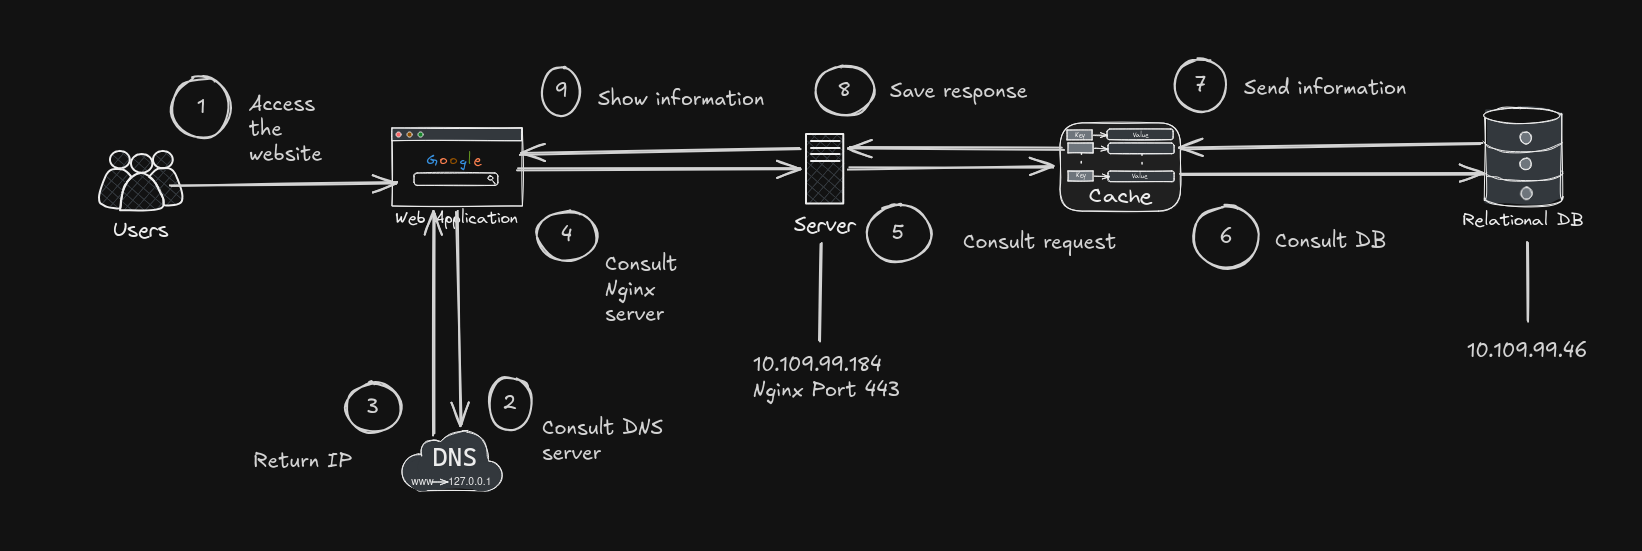
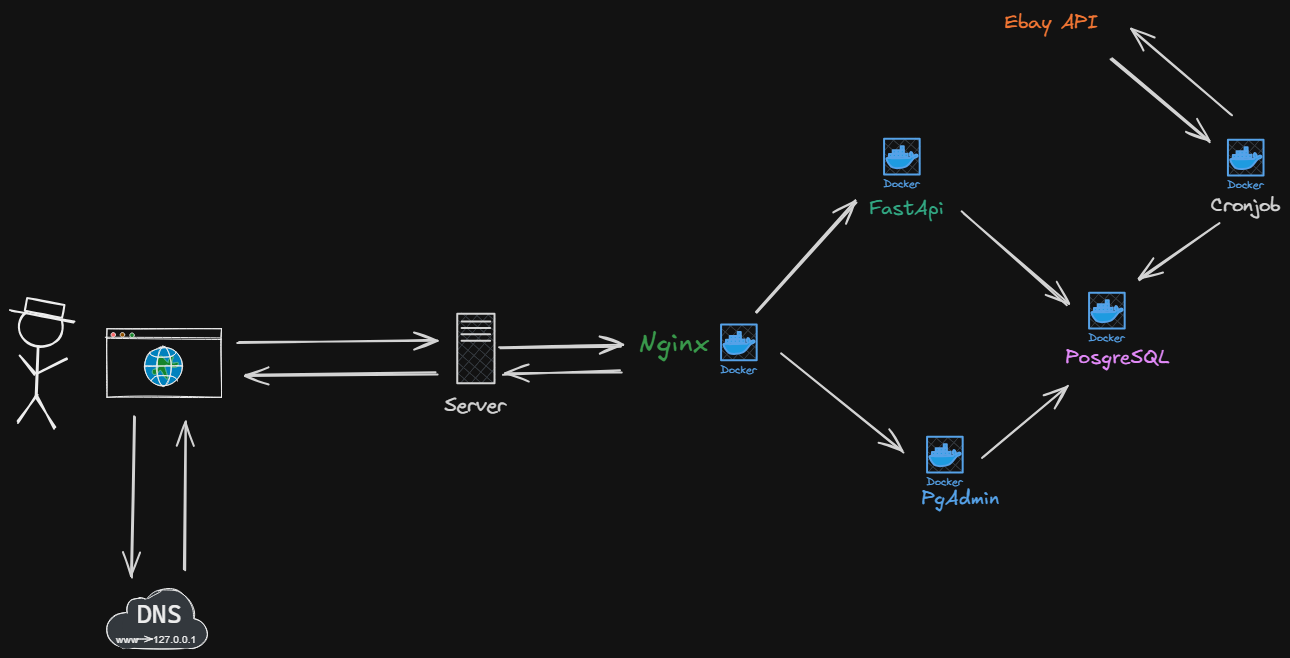
Upload application architecture diagram

diff --git a/README.md b/README.md
@@ -1,31 +1,38 @@
 # Final Project 1ºDAW
 
 # Table of contents
+
+- [Application Architecture](#architecture)
+
 - [Day 1](#day-1)
-    1. [Data source and functionality](#data-source)
-    2. [Virtual machines](#virtual-machines)
-    3. [Architecture diagram](#architecture-diagram)
-    
+  1. [Data source and functionality](#data-source)
+  2. [Virtual machines](#virtual-machines)
+  3. [Architecture diagram](#architecture-diagram)
 - [Day 2](#day-2)
-    1. [Postgres and PgAdmin setup](#db)
-    2. [Entity Relationship Diagram](#entity-diagram)
+  1. [Postgres and PgAdmin setup](#db)
+  2. [Entity Relationship Diagram](#entity-diagram)
 
 - [Day 3](#day-3)
-    1. [Nginx Configuration](#nginx)
-    2. [Cronjob Script](#cronjob)
-    3. [FastApi Backend](#fastapi)
+  1. [Nginx Configuration](#nginx)
+  2. [Cronjob Script](#cronjob)
+  3. [FastApi Backend](#fastapi)
 
 - [Day 4](#day-4)
+
+## Architecture <a name="architecture"></a>
+
+![diagram](./img/architecture-diagram.png)
 
 ## Day 1 <a name="day-1"></a>
 
 ## Data source and functionality <a name="data-source"></a>
-We have chosen the Ebay API as our primary 
+
+We have chosen the Ebay API as our primary
 data source of information. We will use this API to retrieve
 information related to products based in our interests.
 
 Our plan is to use a lightweight Python Backend Framework, such as
-Flask or FastApi and the library requests. 
+Flask or FastApi and the library requests.
 
 We will use FastApi/Flask to declare endpoints that we will call from the Frontend to populate the database
 and additionally generate an html page with the products information consolidated in the database.
@@ -34,14 +41,14 @@ The library requests will be used directly from the backend to retrieve the info
 to the selected products. We will then parse the JSON response and insert product info in the database.
 
 Since we have decided to use an API to retrieve product data, we will be using the **requests** library in Python
-for this purpose. At first we'll need to know how the API we want to hit is built (endpoints we can attack). If the 
+for this purpose. At first we'll need to know how the API we want to hit is built (endpoints we can attack). If the
 API is public this is usually documented in detail.
 
 Once we know at a high level the endpoints we need to attack and the http methods that will be used per endpoint (in this
-case we'll be using the GET http method primarily since our main goal is to retrieve data, not to populate any) we can 
+case we'll be using the GET http method primarily since our main goal is to retrieve data, not to populate any) we can
 use the requests library to perform this actions.
 
-A very basic example from the [docs](https://requests.readthedocs.io/en/latest/) to retrieve data from 
+A very basic example from the [docs](https://requests.readthedocs.io/en/latest/) to retrieve data from
 an API would be this:
 
 ```python
@@ -55,11 +62,11 @@ r = requests.get(url)
 r.json()
 ```
 
-The moment we have parsed the data recovered from the API we can make a connection with 
+The moment we have parsed the data recovered from the API we can make a connection with
 the Postgres database with the library **psycopg2** and make insertions with the data we have recovered
 from the API.
 
-To configure a secure HTTPS server, we will first install nginx  because it uses little memory and is an open-source web server. Then, we install cerbot being an automatic and free toll to enable HTTPS on websites using SSL/TLS certificates with the following command:
+To configure a secure HTTPS server, we will first install nginx because it uses little memory and is an open-source web server. Then, we install cerbot being an automatic and free toll to enable HTTPS on websites using SSL/TLS certificates with the following command:
 
 ```python
 sudo cerbot --nginx
@@ -68,23 +75,21 @@ sudo cerbot --nginx
 For two-factor authentication, we will use Google Authenticator with the googleauth library in Python.
 
 ## Virtual machines <a name="virtual-machines"></a>
+
 For this project, two VMs will be created: one will be the server (using nginx) and the other will host the PostgreSQL database. Each has the following requirements:
+
 - VM BBDD Postgres:
-    - 4 GB RAM
-    - 50 GB Virtual disk
-    - Bridge adapter
-    - 10.109.99.46
-    - User: postgres
+  - 4 GB RAM
+  - 50 GB Virtual disk
+  - Bridge adapter
+  - 10.109.99.46
+  - User: postgres
 - VM Servidor:
-    - 4 GB RAM
-    - 50 GB Virtual disk
-    - Bridge adapter
-    - 10.109.99.184
-    - User: nginx
-
-## Architecture diagram <a name="architecture-diagram"></a>
-
-![diagram](./img/architecture-diagram.png)
+  - 4 GB RAM
+  - 50 GB Virtual disk
+  - Bridge adapter
+  - 10.109.99.184
+  - User: nginx
 
 ## Day 2 <a name="day-2">
 
@@ -97,6 +102,7 @@ Since we have decided to containerize our application using Docker and divide th
 Docker compose will help us connect PgAdmin to the PostGreSQL container, because when we specify several images under the same compose.yaml file, Docker creates internally a network, so all containers can communicate between them.
 
 ## Entity Relationship Diagram <a name="entity-diagram"></a>
+
 ![db-diagram](./img/entity_relationship_model.png)
 
 ## Day 3 <a name="day-3">
@@ -116,10 +122,10 @@ file in which we will specify:
     - The base image will be using for using Nginx
     - nginx.conf file
     - the static files that nginx will serve when a client makes a call to the url
-    on port 80 since at this very moment we have not implemented https and we won't 
+    on port 80 since at this very moment we have not implemented https and we won't
     be serving any content on port 443.
 
-### Dockerfile 
+### Dockerfile
 
 ```bash
 # This image will be pulled from Docker Hub
@@ -130,11 +136,11 @@ COPY nginx.conf /etc/nginx/conf.d/default.conf
 COPY static-site/ /usr/share/nginx/html/
 ```
 
-With the Dockerfile that is shown above we will pull the Nginx image from 
+With the Dockerfile that is shown above we will pull the Nginx image from
 Docker Hub(Repository of images) and having this image as our base, we will add
 the necessary files to configure it.
 
-With the **COPY** keyword inside Dockerfile we can copy content from our local file 
+With the **COPY** keyword inside Dockerfile we can copy content from our local file
 system to the container file system.
 
 ### Usage of nginx.conf
@@ -142,7 +148,7 @@ system to the container file system.
 In this file we need to specify the content nginx is going to serve when the client
 makes http calls on port 80 to the server serving Nginx. Since nginx is running on a container
 we need to map a port on the machine that is going to run Docker to the container. We can achieve this
-by declaring it on a docker-compose.yaml file. 
+by declaring it on a docker-compose.yaml file.
 
 Additionaly since Nginx can also work as a proxy we can declare redirections based
 on the path of the URL. For example: Now we have added a redirection to the fastapi container which will take care
@@ -176,10 +182,10 @@ server {
 ## Loading product data from the Ebay API and storing it in PostgreSQL using a Cronjob. <a name="cronjob"></a>
 
 We are going to automate the process of product data retrieval and the storage of
-this data in PostgreSQL with a Cronjob. Cronjobs are used in Linux to run scripts 
+this data in PostgreSQL with a Cronjob. Cronjobs are used in Linux to run scripts
 at a specific period of time, in our case, we will specify to run a python script daily
 at midnight. We are doing this to update our catalog of products daily and not show the same
-products everyday. It's also possible that products can be acquired, making the products unavailable 
+products everyday. It's also possible that products can be acquired, making the products unavailable
 to get. So we think a daily refresh of products is a good choice.
 
 We will have a separate container that will be reponsible of running our python script daily.
@@ -220,18 +226,18 @@ CMD ["/app/entrypoint.sh"]
 
 With WORKDIR we can establish the current working directory
 and which will be /app in this case and with COPY as said previously
-we can copy files that are located on the machine that's running 
+we can copy files that are located on the machine that's running
 docker to the container itself.
 
 ### Script responsible for data retrieval from the Ebay API and storage in the PostgreSQL database.
 
-Since we are using PostgreSQL as our database we will be using the library **psycopg2** to establish 
+Since we are using PostgreSQL as our database we will be using the library **psycopg2** to establish
 a connection programatically from Python to the database. To retrieve data from the Ebay API we will be using
 the **requests** library. But first, to be able to consume data from the Ebay API we need "credentials" or secrets
 to have access to it. Without an api key or this secrets we won't be able to retrieve any kind of data from Ebay
 at least from their API. This is done this way to implement rate limiting in APIs and limit the usage of it to users.
 
-In Ebay they use a methodology to provide authorization called OAuth, this mechanism works by communicating to an 
+In Ebay they use a methodology to provide authorization called OAuth, this mechanism works by communicating to an
 authorization server with the "credentials" generated previously and then this server granting a token with limited time usage to communicate
 with the Ebay API. This token is the one that will be passed in the authorization header of each http call to be able to perform data
 retrieval successfully. Tokens have limited time usage for security measures in case a token gets stolen, damages will only be temporary.
@@ -239,16 +245,16 @@ retrieval successfully. Tokens have limited time usage for security measures in 
 In our cronjob.py script we have two classes, **DbConnection** that will be responsible of establishing a connection to the PostgreSQL database
 programmatically and then **Cronjob** that will be responsible.
 
-For security measures and avoid commiting sensitive data to to GitHub, we'll be using 
-environment variables. We'll define environment variables in our local machine and then 
-they will loaded to the containers that may need them with docker compose. This is done 
+For security measures and avoid commiting sensitive data to to GitHub, we'll be using
+environment variables. We'll define environment variables in our local machine and then
+they will loaded to the containers that may need them with docker compose. This is done
 with the standard **os** library of Python.
 
 #### DbConnection:
 
 In this class we load the necessary environment variables
 to connect to the postgres database container. We are using docker compose to define
-all the containers that will be part of our architecture. The advantage of doing this 
+all the containers that will be part of our architecture. The advantage of doing this
 is that we can run our whole application and stop it with just two commands. Another advantage
 of using Docker compose is that the containers that we define on it can communicate easly
 between them since they belong to the same network, that's why when we establish the connection
@@ -290,10 +296,10 @@ def token(self):
         headers = {
             "Content-Type": "application/x-www-form-urlencoded"
         }
-        
-        response = requests.post(self.token_url, 
-                                auth=(self.client_id, self.client_secret), 
-                                data=payload, 
+
+        response = requests.post(self.token_url,
+                                auth=(self.client_id, self.client_secret),
+                                data=payload,
                                 headers=headers)
         self._token = response.json()['access_token']
         return self._token
@@ -305,7 +311,7 @@ def token(self):
 
 With the available endpoints that ebay expose, we are able to search products
 and limit the amount of product details that we want to collect using the 'q' and 'limit'
-url params. As we have mention before we will access the token property and assigned it 
+url params. As we have mention before we will access the token property and assigned it
 to the 'Authorization' header in each http call to successfully communicate with the API.
 
 ```python
@@ -368,18 +374,18 @@ def insert_products(self):
 
 ## FastApi Backend Server <a name="fastapi"></a>
 
-We have consolidated in the database product data that's going to be populated 
-and used in our website, but for that like in the Ebay API we need to expose 
-**endpoints** that the frontend will call to retrieve data that will then be used 
+We have consolidated in the database product data that's going to be populated
+and used in our website, but for that like in the Ebay API we need to expose
+**endpoints** that the frontend will call to retrieve data that will then be used
 in our website in the form of components or product cards. For example if one of our
 endpoints returns:
 
 ```json
 {
-    "product_name": "Gameboy",
-    "price": 200,
-    "currency": "USD",
-    "item_link": "https://example-item.com"
+  "product_name": "Gameboy",
+  "price": 200,
+  "currency": "USD",
+  "item_link": "https://example-item.com"
 }
 ```
 
@@ -391,7 +397,7 @@ frontend to call it by passing a category id in specific and a page and size url
 us paginate the products in our frontend.
 
 This is primarely the main endpoint that our frontend client will call to retrieve data from our database
-to consume it. 
+to consume it.
 
 ```python
 @app.get("/api/products/{category_id}")
@@ -401,7 +407,7 @@ async def products(
     size: int = Query(default=10, ge=1, le=100),
 ):
     offset = (page - 1) * size
-    
+
     sql = """
         SELECT name, price, currency, image_url, item_link
         FROM products
@@ -410,12 +416,12 @@ async def products(
         LIMIT %s OFFSET %s
     """
     db.cur.execute(sql, (category_id, size, offset))
-    
+
     rows = db.cur.fetchall()
     return rows
 ```
 
-Once we have a response from the API on the client the responsibility of what to do 
+Once we have a response from the API on the client the responsibility of what to do
 with that data(render it however we see fit), resides in the client code.
 
 ## Day 4 <a name="day-4"></a>
@@ -442,7 +448,7 @@ async def products(
     size: int = Query(default=10, ge=1, le=100),
 ):
     offset = (page - 1) * size
-    
+
     sql = """
         SELECT name, price, currency, image_url, item_link
         FROM products
@@ -451,7 +457,7 @@ async def products(
         LIMIT %s OFFSET %s
     """
     db.cur.execute(sql, (category_id, size, offset))
-    
+
     rows = db.cur.fetchall()
     return rows
 ```
@@ -468,8 +474,9 @@ function fetchProductData(category_id, page = 1, size = 10) {
     .catch((error) => console.error("Error fetching products:", error));
 }
 ```
-By using a category_id and url paramaters (page, size) we can make our backend return 
-different products. Now we are just displaying 3 categories on the products page, so 
+
+By using a category_id and url paramaters (page, size) we can make our backend return
+different products. Now we are just displaying 3 categories on the products page, so
 depending on wich category we click on, an event will be triggered and a different id will be passed
 to make the HTTP call.
 
@@ -479,7 +486,7 @@ Products page:
 
 ### Pagination
 
-When we click on the next or previous button to move to a different page, we will 
+When we click on the next or previous button to move to a different page, we will
 trigger an event that will make an API call with the page we want to go to. e. g. If
 we are currently on the page 1 and we want to go to the next one on the Gameboy category,
 we will use the id of the category and the page number we want to go to to make the API call
